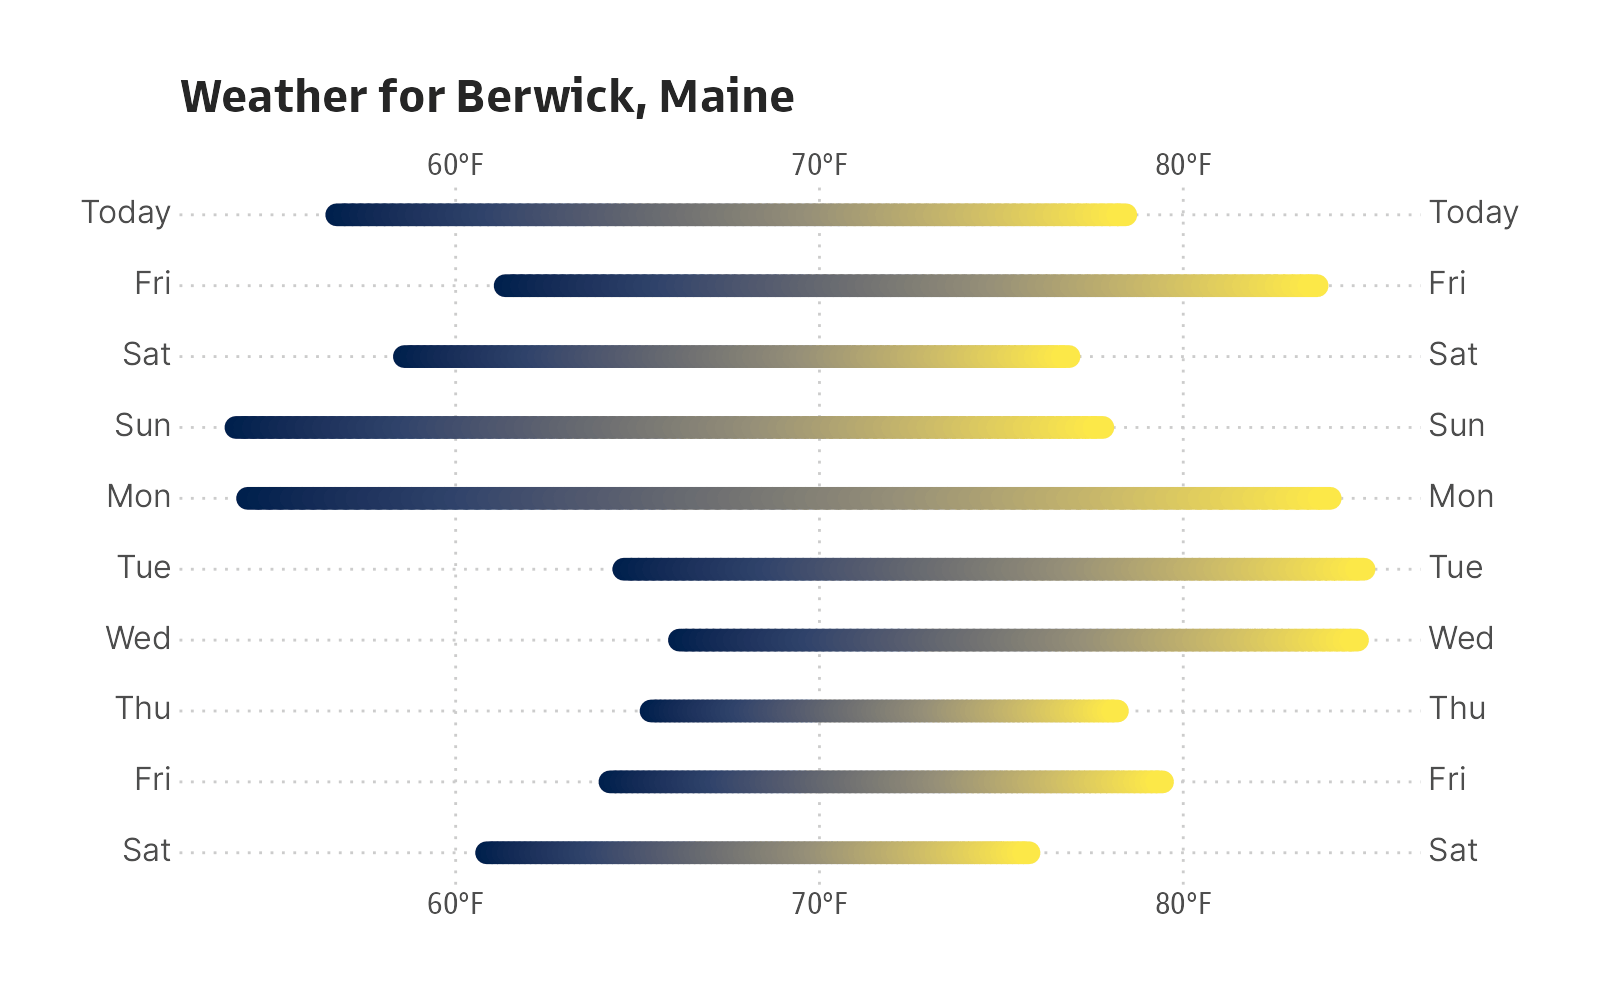
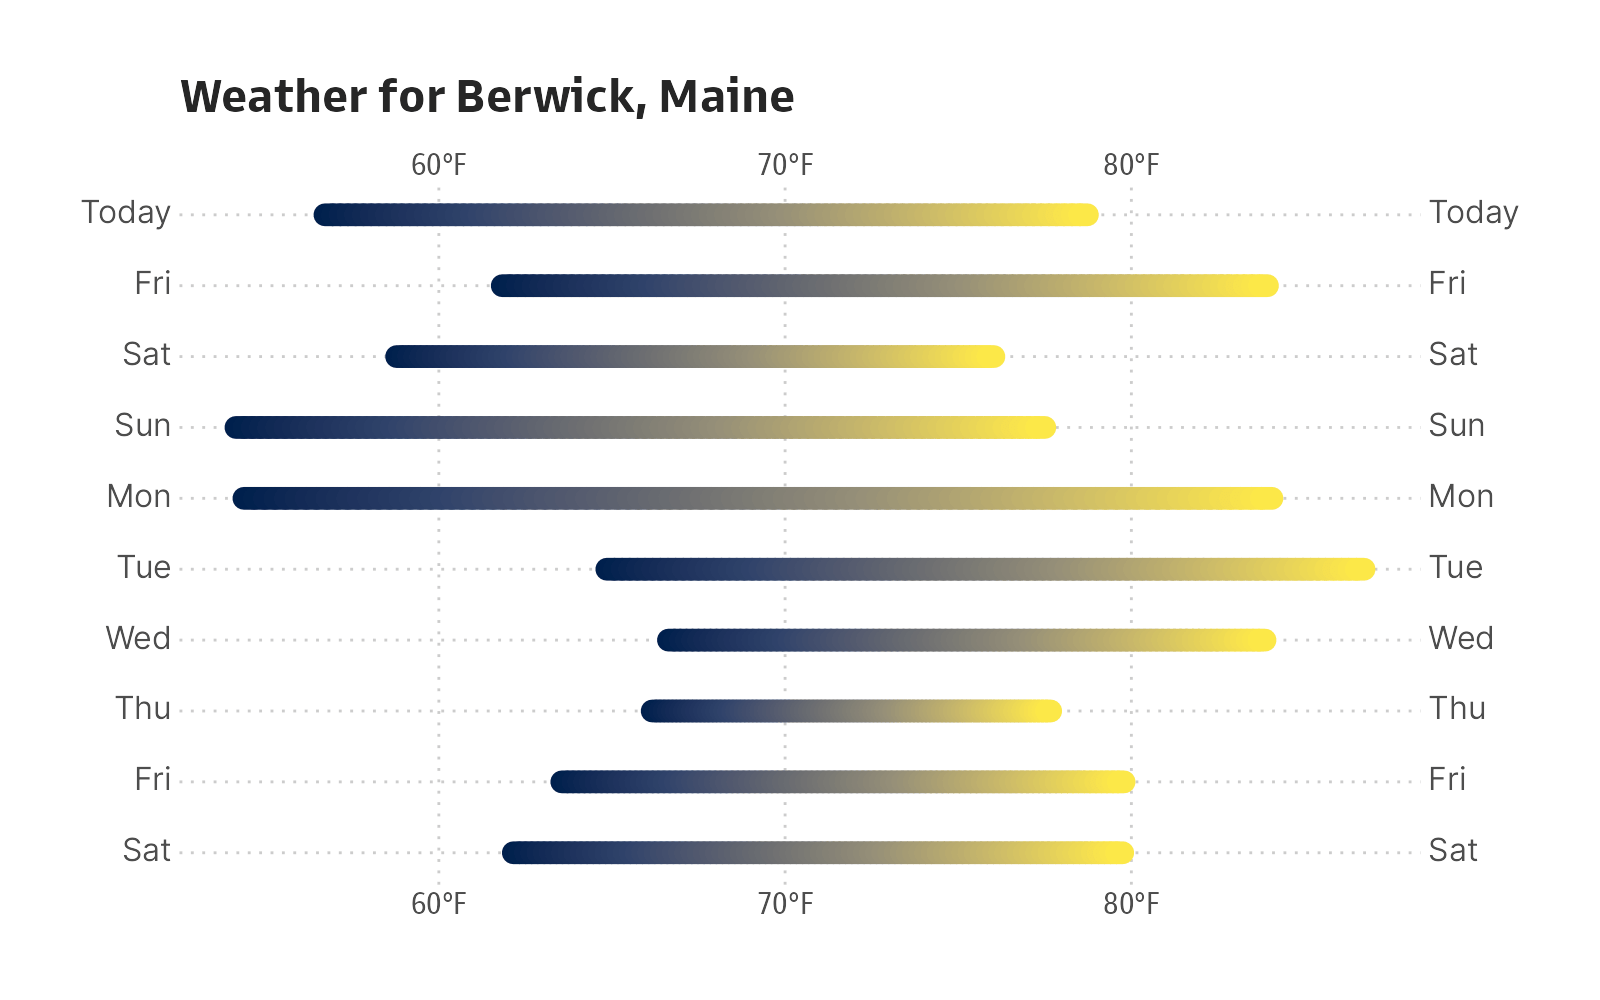
daily forecast

diff --git a/README.md b/README.md
@@ -42,6 +42,8 @@ The following functions are implemented:
     your/an IP address
 -   `current_conditions`: Function to display current conditions for a
     given weather data retrieval
+-   `daily_forecast`: Function to display daily forecast for a given
+    weather data retrieval
 -   `dewpoint_to_humidity`: Calculate relative humidity
 -   `fahrenheit_to_celsius`: Convert from Fahrenheit to Celsius
 -   `hourly_forecast`: Function to display hourly forecast for a given
@@ -123,51 +125,51 @@ str(wx)
 ##   ..$ name                  : chr "CurrentWeather"
 ##   ..$ metadata              :List of 8
 ##   .. ..$ attributionURL: chr "https://weather-data.apple.com/legal-attribution.html"
-##   .. ..$ expireTime    : POSIXct[1:1], format: "2022-07-07 12:28:07"
+##   .. ..$ expireTime    : POSIXct[1:1], format: "2022-07-07 16:35:36"
 ##   .. ..$ latitude      : num 43.3
 ##   .. ..$ longitude     : num -70.9
-##   .. ..$ readTime      : POSIXct[1:1], format: "2022-07-07 12:23:07"
-##   .. ..$ reportedTime  : POSIXct[1:1], format: "2022-07-07 10:48:55"
+##   .. ..$ readTime      : POSIXct[1:1], format: "2022-07-07 16:30:36"
+##   .. ..$ reportedTime  : POSIXct[1:1], format: "2022-07-07 15:02:19"
 ##   .. ..$ units         : chr "m"
 ##   .. ..$ version       : int 1
-##   ..$ asOf                  : POSIXct[1:1], format: "2022-07-07 12:23:07"
-##   ..$ cloudCover            : num 0.29
-##   ..$ conditionCode         : chr "MostlyClear"
+##   ..$ asOf                  : POSIXct[1:1], format: "2022-07-07 16:30:36"
+##   ..$ cloudCover            : num 0.57
+##   ..$ conditionCode         : chr "PartlyCloudy"
 ##   ..$ daylight              : logi TRUE
-##   ..$ humidity              : num 0.68
+##   ..$ humidity              : num 0.51
 ##   ..$ precipitationIntensity: num 0
-##   ..$ pressure              : num 1018
-##   ..$ pressureTrend         : chr "rising"
-##   ..$ temperature           : num 19.5
-##   ..$ temperatureApparent   : num 19.4
-##   ..$ temperatureDewPoint   : num 13.5
-##   ..$ uvIndex               : int 2
-##   ..$ visibility            : num 29413
-##   ..$ windDirection         : int 50
-##   ..$ windGust              : num 12
-##   ..$ windSpeed             : num 4.42
+##   ..$ pressure              : num 1017
+##   ..$ pressureTrend         : chr "falling"
+##   ..$ temperature           : num 24.8
+##   ..$ temperatureApparent   : num 24.8
+##   ..$ temperatureDewPoint   : num 14.1
+##   ..$ uvIndex               : int 6
+##   ..$ visibility            : num 31914
+##   ..$ windDirection         : int 185
+##   ..$ windGust              : num 17
+##   ..$ windSpeed             : num 7.15
 ##  $ forecastDaily   :List of 3
 ##   ..$ name    : chr "DailyForecast"
 ##   ..$ metadata:List of 8
 ##   .. ..$ attributionURL: chr "https://weather-data.apple.com/legal-attribution.html"
-##   .. ..$ expireTime    : POSIXct[1:1], format: "2022-07-07 13:23:07"
+##   .. ..$ expireTime    : POSIXct[1:1], format: "2022-07-07 17:30:36"
 ##   .. ..$ latitude      : num 43.3
 ##   .. ..$ longitude     : num -70.9
-##   .. ..$ readTime      : POSIXct[1:1], format: "2022-07-07 12:23:07"
-##   .. ..$ reportedTime  : POSIXct[1:1], format: "2022-07-07 10:48:55"
+##   .. ..$ readTime      : POSIXct[1:1], format: "2022-07-07 16:30:36"
+##   .. ..$ reportedTime  : POSIXct[1:1], format: "2022-07-07 15:02:19"
 ##   .. ..$ units         : chr "m"
 ##   .. ..$ version       : int 1
 ##   ..$ days    :'data.frame': 10 obs. of  26 variables:
 ##   .. ..$ forecastStart      : POSIXct[1:10], format: "2022-07-07 04:00:00" "2022-07-08 04:00:00" "2022-07-09 04:00:00" "2022-07-10 04:00:00" ...
 ##   .. ..$ forecastEnd        : POSIXct[1:10], format: "2022-07-08 04:00:00" "2022-07-09 04:00:00" "2022-07-10 04:00:00" "2022-07-11 04:00:00" ...
 ##   .. ..$ conditionCode      : chr [1:10] "PartlyCloudy" "PartlyCloudy" "MostlyClear" "MostlyClear" ...
-##   .. ..$ maxUvIndex         : int [1:10] 7 7 7 8 7 6 7 4 5 4
+##   .. ..$ maxUvIndex         : int [1:10] 6 7 7 8 7 6 7 5 5 5
 ##   .. ..$ moonPhase          : chr [1:10] "firstQuarter" "firstQuarter" "waxingGibbous" "waxingGibbous" ...
 ##   .. ..$ moonrise           : POSIXct[1:10], format: "2022-07-07 17:38:12" "2022-07-08 18:50:47" "2022-07-09 20:07:35" "2022-07-10 21:27:35" ...
 ##   .. ..$ moonset            : POSIXct[1:10], format: "2022-07-07 04:32:48" "2022-07-08 04:54:51" "2022-07-09 05:20:27" "2022-07-10 05:51:50" ...
-##   .. ..$ precipitationAmount: num [1:10] 0 0.49 0 0 0 1.32 0.24 3.44 5.07 8.35
-##   .. ..$ precipitationChance: num [1:10] 0.01 0.15 0.07 0 0.07 0.39 0.37 0.4 0.47 0.44
-##   .. ..$ precipitationType  : chr [1:10] "clear" "rain" "clear" "clear" ...
+##   .. ..$ precipitationAmount: num [1:10] 0.03 0.47 0 0 0 ...
+##   .. ..$ precipitationChance: num [1:10] 0.03 0.14 0.07 0 0.08 0.39 0.4 0.4 0.38 0.29
+##   .. ..$ precipitationType  : chr [1:10] "rain" "rain" "clear" "clear" ...
 ##   .. ..$ snowfallAmount     : num [1:10] 0 0 0 0 0 0 0 0 0 0
 ##   .. ..$ solarMidnight      : POSIXct[1:10], format: "2022-07-07 04:48:29" "2022-07-08 04:48:39" "2022-07-09 04:48:49" "2022-07-10 04:48:58" ...
 ##   .. ..$ solarNoon          : POSIXct[1:10], format: "2022-07-07 16:48:26" "2022-07-08 16:48:35" "2022-07-09 16:48:44" "2022-07-10 16:48:53" ...
@@ -179,61 +181,61 @@ str(wx)
 ##   .. ..$ sunsetCivil        : POSIXct[1:10], format: "2022-07-08 01:00:39" "2022-07-09 01:00:10" "2022-07-10 00:59:38" "2022-07-11 00:59:04" ...
 ##   .. ..$ sunsetNautical     : POSIXct[1:10], format: "2022-07-08 01:46:01" "2022-07-09 01:45:23" "2022-07-10 01:44:42" "2022-07-11 01:43:58" ...
 ##   .. ..$ sunsetAstronomical : POSIXct[1:10], format: "2022-07-08 02:41:14" "2022-07-09 02:40:16" "2022-07-10 02:39:14" "2022-07-11 02:38:09" ...
-##   .. ..$ temperatureMax     : num [1:10] 25.8 28.7 24.9 25.4 28.9 ...
-##   .. ..$ temperatureMin     : num [1:10] 13.7 16.3 14.8 12.2 12.4 ...
+##   .. ..$ temperatureMax     : num [1:10] 26 28.9 24.5 25.3 28.9 ...
+##   .. ..$ temperatureMin     : num [1:10] 13.7 16.6 14.9 12.3 12.4 ...
 ##   .. ..$ daytimeForecast    :'data.frame':   10 obs. of  11 variables:
 ##   .. .. ..$ forecastStart      : POSIXct[1:10], format: "2022-07-07 11:00:00" "2022-07-08 11:00:00" "2022-07-09 11:00:00" "2022-07-10 11:00:00" ...
 ##   .. .. ..$ forecastEnd        : POSIXct[1:10], format: "2022-07-07 23:00:00" "2022-07-08 23:00:00" "2022-07-09 23:00:00" "2022-07-10 23:00:00" ...
-##   .. .. ..$ cloudCover         : num [1:10] 0.39 0.45 0.33 0.11 0.42 0.69 0.39 0.95 0.87 0.88
+##   .. .. ..$ cloudCover         : num [1:10] 0.46 0.43 0.36 0.1 0.42 0.66 0.43 0.79 0.79 0.81
 ##   .. .. ..$ conditionCode      : chr [1:10] "PartlyCloudy" "PartlyCloudy" "MostlyClear" "Clear" ...
-##   .. .. ..$ humidity           : num [1:10] 0.57 0.58 0.54 0.47 0.49 0.63 0.64 0.71 0.7 0.66
-##   .. .. ..$ precipitationAmount: num [1:10] 0 0.31 0 0 0 0.26 0.17 3.15 0.22 1.37
-##   .. .. ..$ precipitationChance: num [1:10] 0 0.09 0.04 0 0.02 0.29 0.16 0.31 0.33 0.3
-##   .. .. ..$ precipitationType  : chr [1:10] "clear" "rain" "clear" "clear" ...
+##   .. .. ..$ humidity           : num [1:10] 0.58 0.57 0.56 0.47 0.5 0.62 0.65 0.7 0.68 0.67
+##   .. .. ..$ precipitationAmount: num [1:10] 0.03 0.39 0 0 0 1.46 0.18 3.08 2.33 0
+##   .. .. ..$ precipitationChance: num [1:10] 0.02 0.09 0.04 0 0.03 0.24 0.18 0.31 0.29 0.16
+##   .. .. ..$ precipitationType  : chr [1:10] "rain" "rain" "clear" "clear" ...
 ##   .. .. ..$ snowfallAmount     : num [1:10] 0 0 0 0 0 0 0 0 0 0
-##   .. .. ..$ windDirection      : int [1:10] 155 263 122 237 231 228 219 98 39 62
-##   .. .. ..$ windSpeed          : num [1:10] 8.73 9.42 7.42 6.23 9.75 ...
+##   .. .. ..$ windDirection      : int [1:10] 167 261 120 100 229 232 218 91 62 106
+##   .. .. ..$ windSpeed          : num [1:10] 7.14 9.48 7.9 6.83 9.42 ...
 ##   .. ..$ overnightForecast  :'data.frame':   10 obs. of  11 variables:
 ##   .. .. ..$ forecastStart      : POSIXct[1:10], format: "2022-07-07 23:00:00" "2022-07-08 23:00:00" "2022-07-09 23:00:00" "2022-07-10 23:00:00" ...
 ##   .. .. ..$ forecastEnd        : POSIXct[1:10], format: "2022-07-08 11:00:00" "2022-07-09 11:00:00" "2022-07-10 11:00:00" "2022-07-11 11:00:00" ...
-##   .. .. ..$ cloudCover         : num [1:10] 0.49 0.5 0.15 0.37 0.46 0.4 0.88 0.91 0.8 NA
+##   .. .. ..$ cloudCover         : num [1:10] 0.54 0.6 0.15 0.35 0.54 0.5 0.77 0.84 0.55 0.93
 ##   .. .. ..$ conditionCode      : chr [1:10] "PartlyCloudy" "PartlyCloudy" "MostlyClear" "MostlyClear" ...
-##   .. .. ..$ humidity           : num [1:10] 0.78 0.78 0.71 0.73 0.69 0.81 0.83 0.85 0.84 NA
-##   .. .. ..$ precipitationAmount: num [1:10] 0.06 0.11 0 0 0 1.11 0.04 2.26 6.47 NA
-##   .. .. ..$ precipitationChance: num [1:10] 0.05 0.07 0.01 0.02 0.1 0.27 0.24 0.31 0.31 NA
+##   .. .. ..$ humidity           : num [1:10] 0.77 0.77 0.71 0.74 0.7 0.83 0.83 0.83 0.83 0.82
+##   .. .. ..$ precipitationAmount: num [1:10] 0.03 0.05 0 0 0 ...
+##   .. .. ..$ precipitationChance: num [1:10] 0.04 0.06 0.01 0.02 0.1 0.31 0.25 0.27 0.25 0.15
 ##   .. .. ..$ precipitationType  : chr [1:10] "rain" "rain" "clear" "clear" ...
-##   .. .. ..$ snowfallAmount     : num [1:10] 0 0 0 0 0 0 0 0 0 NA
-##   .. .. ..$ windDirection      : int [1:10] 192 341 347 223 218 242 276 13 49 NA
-##   .. .. ..$ windSpeed          : num [1:10] 9.92 7.15 6.59 5.52 10.95 ...
+##   .. .. ..$ snowfallAmount     : num [1:10] 0 0 0 0 0 0 0 0 0 0
+##   .. .. ..$ windDirection      : int [1:10] 194 340 343 222 218 242 277 346 18 205
+##   .. .. ..$ windSpeed          : num [1:10] 10.23 7.04 6.69 5.59 10.47 ...
 ##   .. ..$ restOfDayForecast  :'data.frame':   10 obs. of  11 variables:
-##   .. .. ..$ forecastStart      : POSIXct[1:10], format: "2022-07-07 12:23:07" NA NA NA ...
+##   .. .. ..$ forecastStart      : POSIXct[1:10], format: "2022-07-07 16:30:36" NA NA NA ...
 ##   .. .. ..$ forecastEnd        : POSIXct[1:10], format: "2022-07-08 04:00:00" NA NA NA ...
-##   .. .. ..$ cloudCover         : num [1:10] 0.47 NA NA NA NA NA NA NA NA NA
+##   .. .. ..$ cloudCover         : num [1:10] 0.58 NA NA NA NA NA NA NA NA NA
 ##   .. .. ..$ conditionCode      : chr [1:10] "PartlyCloudy" NA NA NA ...
-##   .. .. ..$ humidity           : num [1:10] 0.6 NA NA NA NA NA NA NA NA NA
-##   .. .. ..$ precipitationAmount: num [1:10] 0 NA NA NA NA NA NA NA NA NA
-##   .. .. ..$ precipitationChance: num [1:10] 0.01 NA NA NA NA NA NA NA NA NA
-##   .. .. ..$ precipitationType  : chr [1:10] "clear" NA NA NA ...
+##   .. .. ..$ humidity           : num [1:10] 0.61 NA NA NA NA NA NA NA NA NA
+##   .. .. ..$ precipitationAmount: num [1:10] 0.03 NA NA NA NA NA NA NA NA NA
+##   .. .. ..$ precipitationChance: num [1:10] 0.02 NA NA NA NA NA NA NA NA NA
+##   .. .. ..$ precipitationType  : chr [1:10] "rain" NA NA NA ...
 ##   .. .. ..$ snowfallAmount     : num [1:10] 0 NA NA NA NA NA NA NA NA NA
-##   .. .. ..$ windDirection      : int [1:10] 163 NA NA NA NA NA NA NA NA NA
-##   .. .. ..$ windSpeed          : num [1:10] 9.7 NA NA NA NA NA NA NA NA NA
+##   .. .. ..$ windDirection      : int [1:10] 170 NA NA NA NA NA NA NA NA NA
+##   .. .. ..$ windSpeed          : num [1:10] 10.8 NA NA NA NA ...
 ##  $ forecastHourly  :List of 3
 ##   ..$ name    : chr "HourlyForecast"
 ##   ..$ metadata:List of 8
 ##   .. ..$ attributionURL: chr "https://weather-data.apple.com/legal-attribution.html"
-##   .. ..$ expireTime    : POSIXct[1:1], format: "2022-07-07 13:23:07"
+##   .. ..$ expireTime    : POSIXct[1:1], format: "2022-07-07 17:30:36"
 ##   .. ..$ latitude      : num 43.3
 ##   .. ..$ longitude     : num -70.9
-##   .. ..$ readTime      : POSIXct[1:1], format: "2022-07-07 12:23:07"
-##   .. ..$ reportedTime  : POSIXct[1:1], format: "2022-07-07 10:48:55"
+##   .. ..$ readTime      : POSIXct[1:1], format: "2022-07-07 16:30:36"
+##   .. ..$ reportedTime  : POSIXct[1:1], format: "2022-07-07 15:02:19"
 ##   .. ..$ units         : chr "m"
 ##   .. ..$ version       : int 1
 ##   ..$ hours   :'data.frame': 243 obs. of  20 variables:
 ##   .. ..$ forecastStart         : POSIXct[1:243], format: "2022-07-07 02:00:00" "2022-07-07 03:00:00" "2022-07-07 04:00:00" "2022-07-07 05:00:00" ...
-##   .. ..$ cloudCover            : num [1:243] 0.02 0.01 0.02 0.31 0.44 0.74 0.3 1 0.96 0.32 ...
+##   .. ..$ cloudCover            : num [1:243] 0.01 0 0.02 0.3 0.43 0.72 0.31 1 0.95 0.91 ...
 ##   .. ..$ conditionCode         : chr [1:243] "Clear" "Clear" "Clear" "MostlyClear" ...
 ##   .. ..$ daylight              : logi [1:243] FALSE FALSE FALSE FALSE FALSE FALSE ...
-##   .. ..$ humidity              : num [1:243] 0.74 0.78 0.81 0.83 0.86 0.88 0.9 0.92 0.88 0.83 ...
+##   .. ..$ humidity              : num [1:243] 0.74 0.78 0.81 0.83 0.87 0.89 0.9 0.92 0.9 0.87 ...
 ##   .. ..$ precipitationAmount   : num [1:243] 0 0 0 0 0 0 0 0 0 0 ...
 ##   .. ..$ precipitationIntensity: num [1:243] 0 0 0 0 0 0 0 0 0 0 ...
 ##   .. ..$ precipitationChance   : num [1:243] 0 0 0 0 0 0 0 0 0 0 ...
@@ -241,79 +243,97 @@ str(wx)
 ##   .. ..$ pressure              : num [1:243] 1014 1015 1016 1016 1016 ...
 ##   .. ..$ pressureTrend         : chr [1:243] "rising" "rising" "rising" "rising" ...
 ##   .. ..$ snowfallIntensity     : num [1:243] 0 0 0 0 0 0 0 0 0 0 ...
-##   .. ..$ temperature           : num [1:243] 18.3 17 16.3 15.7 14.9 ...
-##   .. ..$ temperatureApparent   : num [1:243] 18.2 16.9 16.1 15.5 14.7 ...
+##   .. ..$ temperature           : num [1:243] 18.3 17 16.2 15.7 14.8 ...
+##   .. ..$ temperatureApparent   : num [1:243] 18.2 16.8 16.1 15.5 14.7 ...
 ##   .. ..$ temperatureDewPoint   : num [1:243] 13.6 13.1 12.9 12.8 12.6 ...
 ##   .. ..$ uvIndex               : int [1:243] 0 0 0 0 0 0 0 0 0 1 ...
-##   .. ..$ visibility            : num [1:243] 28105 26514 24730 23883 23669 ...
-##   .. ..$ windDirection         : int [1:243] 315 302 315 308 310 298 307 316 319 6 ...
-##   .. ..$ windGust              : num [1:243] 2.93 2.56 2.92 3.25 3.35 ...
-##   .. ..$ windSpeed             : num [1:243] 2.93 2.56 2.92 3.25 3.35 3.09 3.51 2.91 2.36 4.55 ...
+##   .. ..$ visibility            : num [1:243] 27974 25936 24465 23639 23264 ...
+##   .. ..$ windDirection         : int [1:243] 315 303 315 307 309 298 308 317 310 310 ...
+##   .. ..$ windGust              : num [1:243] 2.93 2.49 2.88 3.17 3.31 3.05 3.45 2.4 1.69 2.76 ...
+##   .. ..$ windSpeed             : num [1:243] 2.93 2.49 2.88 3.17 3.31 3.05 3.45 2.4 1.69 0.72 ...
 ##  $ forecastNextHour:List of 6
 ##   ..$ name         : chr "NextHourForecast"
 ##   ..$ metadata     :List of 9
 ##   .. ..$ attributionURL: chr "https://weather-data.apple.com/legal-attribution.html"
-##   .. ..$ expireTime    : POSIXct[1:1], format: "2022-07-07 13:23:07"
+##   .. ..$ expireTime    : POSIXct[1:1], format: "2022-07-07 17:30:36"
 ##   .. ..$ language      : chr "en-US"
 ##   .. ..$ latitude      : num 43.3
 ##   .. ..$ longitude     : num -70.9
 ##   .. ..$ providerName  : chr "US National Weather Service"
-##   .. ..$ readTime      : POSIXct[1:1], format: "2022-07-07 12:23:07"
+##   .. ..$ readTime      : POSIXct[1:1], format: "2022-07-07 16:30:36"
 ##   .. ..$ units         : chr "m"
 ##   .. ..$ version       : int 1
 ##   ..$ summary      :'data.frame':    1 obs. of  4 variables:
-##   .. ..$ startTime             : POSIXct[1:1], format: "2022-07-07 12:24:00"
+##   .. ..$ startTime             : POSIXct[1:1], format: "2022-07-07 16:31:00"
 ##   .. ..$ condition             : chr "clear"
 ##   .. ..$ precipitationChance   : num 0
 ##   .. ..$ precipitationIntensity: num 0
-##   ..$ forecastStart: POSIXct[1:1], format: "2022-07-07 12:24:00"
-##   ..$ forecastEnd  : POSIXct[1:1], format: "2022-07-07 13:45:00"
-##   ..$ minutes      :'data.frame':    81 obs. of  3 variables:
-##   .. ..$ startTime             : POSIXct[1:81], format: "2022-07-07 12:24:00" "2022-07-07 12:25:00" "2022-07-07 12:26:00" "2022-07-07 12:27:00" ...
-##   .. ..$ precipitationChance   : num [1:81] 0 0 0 0 0 0 0 0 0 0 ...
-##   .. ..$ precipitationIntensity: num [1:81] 0 0 0 0 0 0 0 0 0 0 ...
+##   ..$ forecastStart: POSIXct[1:1], format: "2022-07-07 16:31:00"
+##   ..$ forecastEnd  : POSIXct[1:1], format: "2022-07-07 17:49:00"
+##   ..$ minutes      :'data.frame':    78 obs. of  3 variables:
+##   .. ..$ startTime             : POSIXct[1:78], format: "2022-07-07 16:31:00" "2022-07-07 16:32:00" "2022-07-07 16:33:00" "2022-07-07 16:34:00" ...
+##   .. ..$ precipitationChance   : num [1:78] 0 0 0 0 0 0 0 0 0 0 ...
+##   .. ..$ precipitationIntensity: num [1:78] 0 0 0 0 0 0 0 0 0 0 ...
 ```
 
 ``` r
 current_conditions(wx)
-##  Weather for (43.268, -70.864) as of 2022-07-07 08:23:07
+##  Weather for (43.268, -70.864) as of 2022-07-07 12:30:36
 ## 
-##  Conditions: Mostly Clear
-## Temperature: 67.08°F
-##  Feels like: 66.92°F
-##   Dew Point: 56.28°F
-##        Wind: 2.7 mph (NE)
-##    Pressure: 1017.68 mb (rising)
-##  Visibility: 18 miles
-##    UV Index: 🟩 2 (Low)
+##  Conditions: Partly Cloudy
+## Temperature: 76.62°F
+##  Feels like: 76.66°F
+##   Dew Point: 57.36°F
+##        Wind: 4.4 mph (S)
+##    Pressure: 1016.77 mb (falling)
+##  Visibility: 20 miles
+##    UV Index: 🟧 6 (High)
 ## 
 ## https://weather-data.apple.com/legal-attribution.html
 ```
 
 ``` r
 hourly_forecast(wx)
-##  Weather forecast for (43.268, -70.864) as of 2022-07-07 08:23:07
+##  Weather forecast for (43.268, -70.864) as of 2022-07-07 12:30:36
 ## 
-## Today @ 09:00 │ 🌡 69°F │ 💦 63% │ 1018 mb — │ 😎 │ Mostly Clear  │ 🟨
-##       @ 10:00 │ 🌡 71°F │ 💦 58% │ 1018 mb — │ 😎 │ Mostly Clear  │ 🟨
-##       @ 11:00 │ 🌡 74°F │ 💦 55% │ 1018 mb — │ 😎 │ Mostly Clear  │ 🟧
-##       @ 12:00 │ 🌡 75°F │ 💦 53% │ 1017 mb — │ 😎 │ Partly Cloudy │ 🟧
-##       @ 13:00 │ 🌡 77°F │ 💦 51% │ 1017 mb ↓ │ 😎 │ Partly Cloudy │ 🟧
-##       @ 14:00 │ 🌡 78°F │ 💦 50% │ 1016 mb ↓ │ 😎 │ Partly Cloudy │ 🟧
-##       @ 15:00 │ 🌡 78°F │ 💦 50% │ 1016 mb ↓ │ 😎 │ Partly Cloudy │ 🟨
-##       @ 16:00 │ 🌡 77°F │ 💦 52% │ 1016 mb ↓ │ 😎 │ Partly Cloudy │ 🟨
-##       @ 17:00 │ 🌡 76°F │ 💦 55% │ 1015 mb ↓ │ 😎 │ Partly Cloudy │ 🟩
-##       @ 18:00 │ 🌡 75°F │ 💦 58% │ 1015 mb — │ 😎 │ Partly Cloudy │ 🟩
+## Today @ 13:00 │ 🌡 78°F │ 💦 51% │ 1016 mb ↓ │ 😎 │ Partly Cloudy │ 🟧
+##       @ 14:00 │ 🌡 79°F │ 💦 49% │ 1016 mb ↓ │ 😎 │ Partly Cloudy │ 🟧
+##       @ 15:00 │ 🌡 78°F │ 💦 51% │ 1016 mb ↓ │ 😎 │ Mostly Cloudy │ 🟨
+##       @ 16:00 │ 🌡 78°F │ 💦 53% │ 1015 mb ↓ │ 😎 │ Mostly Cloudy │ 🟨
+##       @ 17:00 │ 🌡 76°F │ 💦 56% │ 1015 mb ↓ │ 😎 │ Partly Cloudy │ 🟩
+##       @ 18:00 │ 🌡 75°F │ 💦 60% │ 1015 mb — │ 😎 │ Partly Cloudy │ 🟩
 ##       @ 19:00 │ 🌡 73°F │ 💦 62% │ 1015 mb — │ 😎 │ Mostly Clear  │ 🟩
-##       @ 20:00 │ 🌡 70°F │ 💦 67% │ 1015 mb — │ 😎 │ Partly Cloudy │ 🟩
-##       @ 21:00 │ 🌡 68°F │ 💦 71% │ 1015 mb — │ 🌕 │ Mostly Cloudy │ 🟩
-##       @ 22:00 │ 🌡 67°F │ 💦 74% │ 1015 mb — │ 🌕 │ Mostly Cloudy │ 🟩
-##       @ 23:00 │ 🌡 67°F │ 💦 74% │ 1015 mb — │ 🌕 │ Mostly Cloudy │ 🟩
-##   Fri @ 00:00 │ 🌡 66°F │ 💦 74% │ 1015 mb — │ 🌕 │ Partly Cloudy │ 🟩
-##       @ 01:00 │ 🌡 65°F │ 💦 78% │ 1015 mb — │ 🌕 │ Partly Cloudy │ 🟩
-##       @ 02:00 │ 🌡 64°F │ 💦 81% │ 1015 mb — │ 🌕 │ Mostly Clear  │ 🟩
-##       @ 03:00 │ 🌡 63°F │ 💦 83% │ 1015 mb — │ 🌕 │ Partly Cloudy │ 🟩
-##       @ 04:00 │ 🌡 62°F │ 💦 85% │ 1015 mb — │ 🌕 │ Partly Cloudy │ 🟩
+##       @ 20:00 │ 🌡 71°F │ 💦 67% │ 1015 mb — │ 😎 │ Partly Cloudy │ 🟩
+##       @ 21:00 │ 🌡 69°F │ 💦 70% │ 1015 mb — │ 🌕 │ Partly Cloudy │ 🟩
+##       @ 22:00 │ 🌡 68°F │ 💦 72% │ 1015 mb — │ 🌕 │ Mostly Cloudy │ 🟩
+##       @ 23:00 │ 🌡 68°F │ 💦 72% │ 1015 mb — │ 🌕 │ Mostly Cloudy │ 🟩
+##   Fri @ 00:00 │ 🌡 67°F │ 💦 75% │ 1015 mb — │ 🌕 │ Mostly Cloudy │ 🟩
+##       @ 01:00 │ 🌡 66°F │ 💦 78% │ 1015 mb — │ 🌕 │ Mostly Cloudy │ 🟩
+##       @ 02:00 │ 🌡 64°F │ 💦 80% │ 1015 mb — │ 🌕 │ Partly Cloudy │ 🟩
+##       @ 03:00 │ 🌡 64°F │ 💦 83% │ 1015 mb — │ 🌕 │ Partly Cloudy │ 🟩
+##       @ 04:00 │ 🌡 62°F │ 💦 84% │ 1015 mb — │ 🌕 │ Partly Cloudy │ 🟩
+##       @ 05:00 │ 🌡 62°F │ 💦 86% │ 1015 mb — │ 🌕 │ Partly Cloudy │ 🟩
+##       @ 06:00 │ 🌡 62°F │ 💦 87% │ 1015 mb — │ 😎 │ Mostly Clear  │ 🟩
+##       @ 07:00 │ 🌡 65°F │ 💦 84% │ 1015 mb — │ 😎 │ Mostly Clear  │ 🟩
+##       @ 08:00 │ 🌡 69°F │ 💦 79% │ 1015 mb — │ 😎 │ Mostly Clear  │ 🟩
+## 
+## https://weather-data.apple.com/legal-attribution.html
+```
+
+``` r
+daily_forecast(wx)
+##  Weather daily forecast for (43.268, -70.864) as of 2022-07-07 12:30:36
+## 
+## Today 57° ▆▆▆▆▆▆▆▆▆▆▆▆▆▆▆▆▆▆▆▆▆▆▆▆▆▆▆▆▆▆ 79° 🟧 Partly Cloudy
+##   Fri 62° ▆▆▆▆▆▆▆▆▆▆▆▆▆▆▆▆▆▆▆▆▆▆▆▆▆▆▆▆▆▆ 84° 🟧 Partly Cloudy
+##   Sat 59° ▆▆▆▆▆▆▆▆▆▆▆▆▆▆▆▆▆▆▆▆▆▆▆▆▆▆▆▆▆▆ 76° 🟧 Mostly Clear 
+##   Sun 54° ▆▆▆▆▆▆▆▆▆▆▆▆▆▆▆▆▆▆▆▆▆▆▆▆▆▆▆▆▆▆ 78° 🟥 Mostly Clear 
+##   Mon 54° ▆▆▆▆▆▆▆▆▆▆▆▆▆▆▆▆▆▆▆▆▆▆▆▆▆▆▆▆▆▆ 84° 🟧 Partly Cloudy
+##   Tue 65° ▆▆▆▆▆▆▆▆▆▆▆▆▆▆▆▆▆▆▆▆▆▆▆▆▆▆▆▆▆▆ 87° 🟧 Rain         
+##   Wed 67° ▆▆▆▆▆▆▆▆▆▆▆▆▆▆▆▆▆▆▆▆▆▆▆▆▆▆▆▆▆▆ 84° 🟧 Drizzle      
+##   Thu 66° ▆▆▆▆▆▆▆▆▆▆▆▆▆▆▆▆▆▆▆▆▆▆▆▆▆▆▆▆▆▆ 78° 🟨 Drizzle      
+##   Fri 64° ▆▆▆▆▆▆▆▆▆▆▆▆▆▆▆▆▆▆▆▆▆▆▆▆▆▆▆▆▆▆ 80° 🟨 Rain         
+##   Sat 62° ▆▆▆▆▆▆▆▆▆▆▆▆▆▆▆▆▆▆▆▆▆▆▆▆▆▆▆▆▆▆ 80° 🟨 Mostly Cloudy
 ## 
 ## https://weather-data.apple.com/legal-attribution.html
 ```
@@ -378,11 +398,11 @@ xdf |>
 
 | Lang | \# Files |  (%) | LoC |  (%) | Blank lines |  (%) | \# Lines |  (%) |
 |:-----|---------:|-----:|----:|-----:|------------:|-----:|---------:|-----:|
-| R    |       19 | 0.40 | 517 | 0.28 |         180 | 0.33 |      398 | 0.41 |
-| HTML |        1 | 0.02 | 306 | 0.17 |          35 | 0.07 |        2 | 0.00 |
-| Rmd  |        2 | 0.04 |  68 | 0.04 |          44 | 0.08 |       79 | 0.08 |
+| R    |       20 | 0.40 | 566 | 0.29 |         193 | 0.34 |      411 | 0.41 |
+| HTML |        1 | 0.02 | 306 | 0.16 |          35 | 0.06 |        2 | 0.00 |
+| Rmd  |        2 | 0.04 |  69 | 0.04 |          45 | 0.08 |       81 | 0.08 |
 | YAML |        2 | 0.04 |  35 | 0.02 |          10 | 0.02 |        2 | 0.00 |
-| SUM  |       24 | 0.50 | 926 | 0.50 |         269 | 0.50 |      481 | 0.50 |
+| SUM  |       25 | 0.50 | 976 | 0.50 |         283 | 0.50 |      496 | 0.50 |
 
 clock Package Metrics for weatherkit
 
